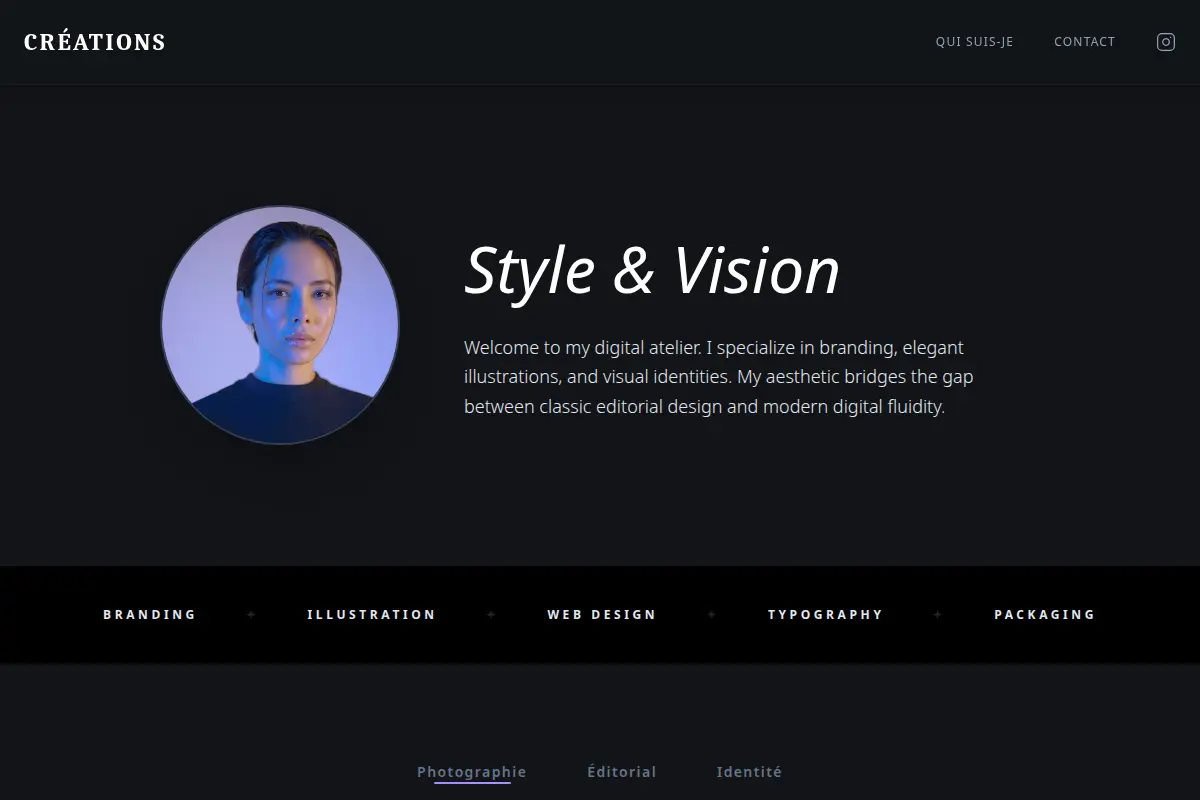
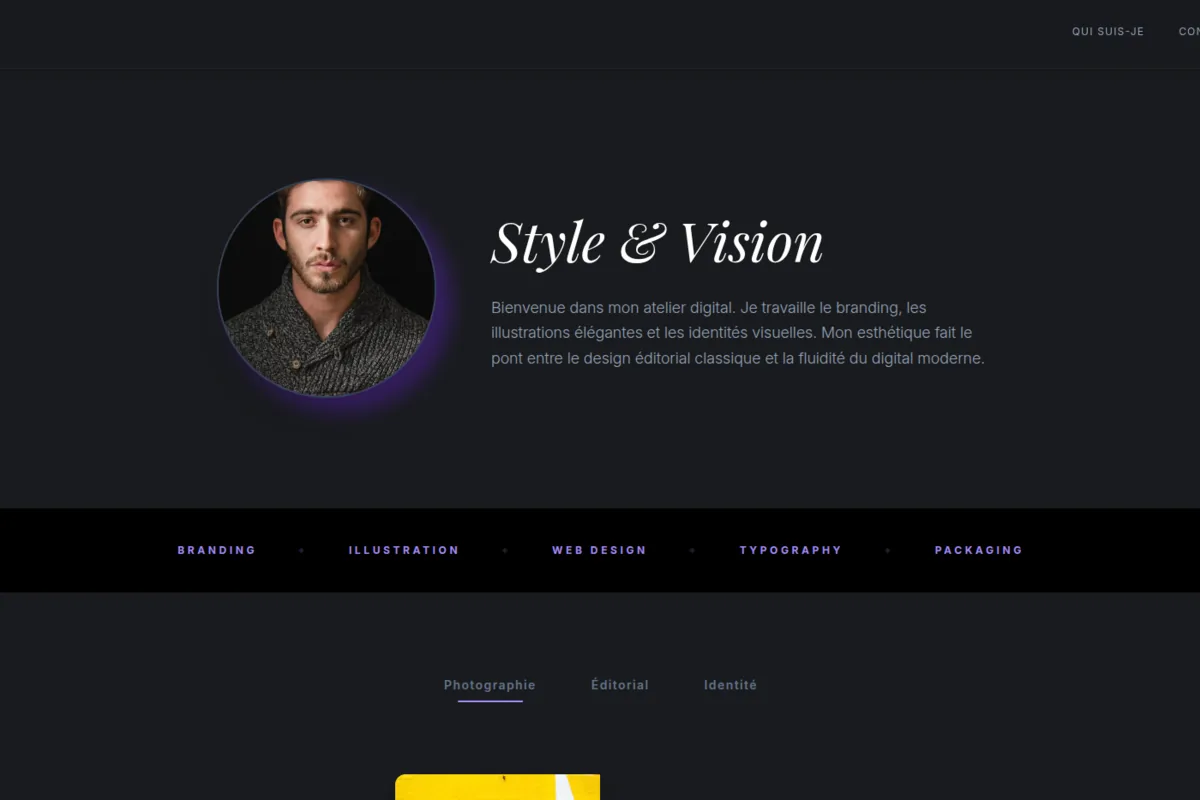
Style: Refined hero and showcase presentation

diff --git a/src/data/vitrine.ts b/src/data/vitrine.ts
@@ -13,8 +13,8 @@ export const vitrines: Vitrine[] = [
         title: "Template site Graphiste",
         desc: "Une template destinée aux artistes du visuel, pour une communication simple et directe.",
         img: "/assets/static/graphist_website_preview.webp",
-        link: null,
-        linkText: "Template reservée"
+        link: "/graph_showcase/",
+        linkText: "Voir le Projet"
     },
     {
         id: 2,
